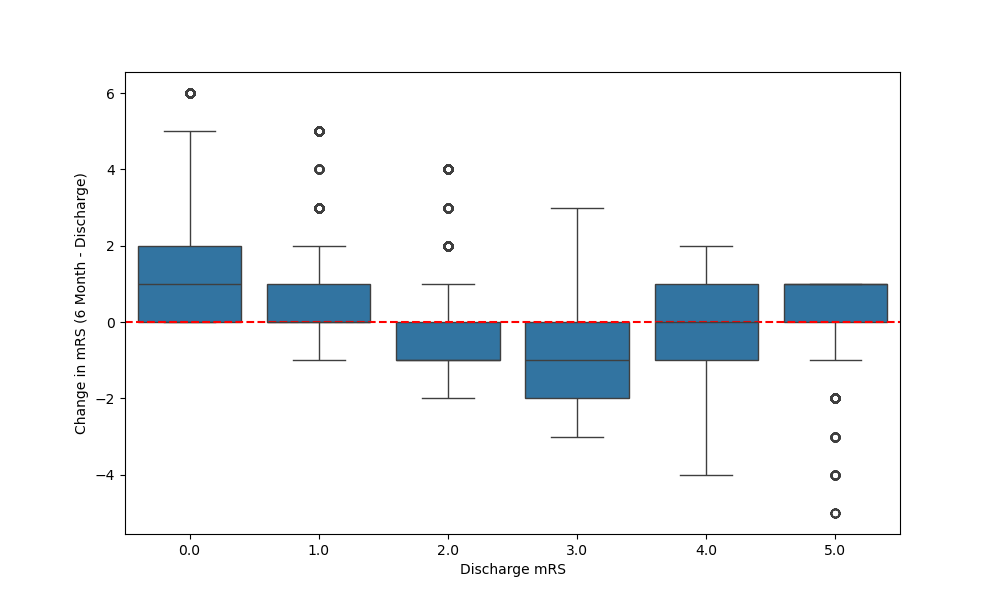
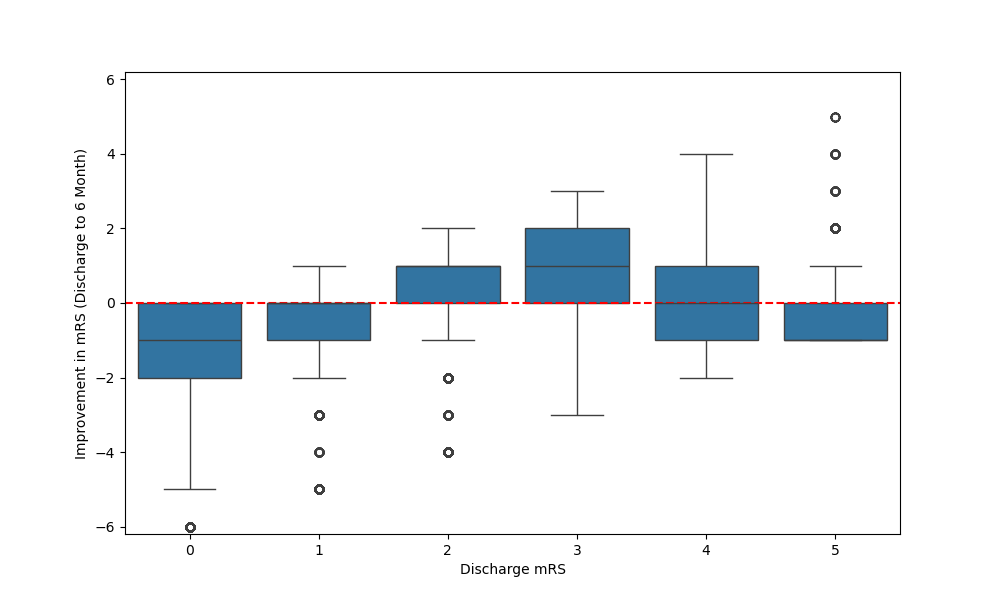
Updates from Overleaf

diff --git a/sections/08_supplementary_material.tex b/sections/08_supplementary_material.tex
@@ -350,14 +350,14 @@ Figure \ref{fig:mrs_change_hist} shows a histogram of changes across the populat
 \begin{figure}[ht]
     \centering
     \includegraphics[width=0.75\linewidth]{images/mrs_change_from_discharge_histogram.png}
-    \caption{Change in mRS from Discharge to 6 Month Follow-up by Discharge mRS}
+    \caption{Improvement in mRS from Discharge to 6 Month Follow-up by Discharge mRS. A positive number indicates reducing disability.}
     \label{fig:mrs_change_hist}
 \end{figure}
 
 \begin{figure}[ht]
     \centering
     \includegraphics[width=0.75\linewidth]{images/mrs_change_from_discharge.png}
-    \caption{Change in mRS from Discharge to 6 Month Follow-up by Discharge mRS}
+    \caption{Improvement in mRS from Discharge to 6 Month Follow-up by Discharge mRS. A positive number indicates reducing disability.}
     \label{fig:mrs_change}
 \end{figure}
 

diff --git a/main.tex b/main.tex
@@ -89,7 +89,7 @@
 \beginsupplement
 
 %TC:ignore
-%\include{sections/08_supplementary_material}
+\include{sections/08_supplementary_material}
 %TC:endignore
 
 % Word counts - Don't count these!

diff --git a/sections/01_abstract.tex b/sections/01_abstract.tex
@@ -4,6 +4,6 @@
 
 \textbf{Methods}: Data from a total of 168,347 ischaemic stroke patients who attended one of 118 emergency stroke hospitals in England and Wales from 2016 to 2021 were extracted from the Sentinel Stroke National Audit Programme (SSNAP). We constructed a machine learning model, designed to isolate the effect of thrombolysis, using explainable machine learning (XGBoost with SHAP).
 
-\textbf{Results}: Thrombolysis was found to be associated with a statistically significant improvement in the odds of achieving any given mRS threshold. Regression analysis predicted a maximum 2.5-fold improvement in odds of achieving mRS 0-1, with a decline to no treatment effect at 5 hours 28 minutes post-onset.
+\textbf{Results}: Thrombolysis was found to be associated with a statistically significant improvement in the odds of achieving a better outcome (mRS threshold). Regression analysis predicted a maximum 2.5-fold improvement in odds of achieving mRS 0-1, with a decline to no treatment effect at 5 hours 28 minutes post-onset.
 
 \textbf{Conclusions}:  Our results confirm a beneficial effect of thrombolysis in a large prospective national stroke registry, and align closely with meta-analyses of clinical trials of thrombolysis both in terms of magnitude of effect and decline over time. This work also demonstrates the potential to apply explainable machine learning to observational data to assist in understanding how clinical trials are implemented in real-world settings.

diff --git a/sections/04_results.tex b/sections/04_results.tex
@@ -2,7 +2,7 @@
 
 \subsection{Descriptive statistics}
 
-168,347 patients (with onset-to-scan of within 255 minutes) attended 118 hospitals with total stroke admissions per hospital ranging from 358 to 4,559, and with hospital thrombolysis rates ranging from 5.9\% to 39.2\%. Of the 133,516 patients who did not receive thrombolysis, their range of disability at discharge was: 12\% mRS 0, 33\% mRS 0-1, 52\% mRS 0-2, 69\% mRS 0-3, 82\% mRS 0-4, and 88\% mRS 0-5 at discharge. Of the 34,831 patients who received thrombolysis, their range of disability at discharge was: 15\% mRS 0, 35\% mRS 0-1, 54\% mRS 0-2, 69\% mRS 0-3, 81\% mRS 0-4, and 86\% mRS 0-5. Table \ref{tab:descriptive_stats} shows further descriptive statistics for patients who received or did not receive thrombolysis. 30.7\% had six month follow-up assessment of mRS. On average mRS at 6 months is very close to mRS at discharge (0.12 higher), but there was variation at individual patient level: 31\% had no change between discharge and 6 month follow-up, 73\% had no change or a change of 1 mRS band, and 27\% had a change of two or more mRS bands. Further descriptive statistics are provided in the Supplemental Material.
+168,347 patients (with onset-to-scan of within 255 minutes) attended 118 hospitals with total stroke admissions per hospital ranging from 358 to 4,559, and with hospital thrombolysis rates ranging from 5.9\% to 39.2\%. Of the 133,516 patients who did not receive thrombolysis, their range of disability at discharge was: 12\% mRS 0, 33\% mRS 0-1, 52\% mRS 0-2, 69\% mRS 0-3, 82\% mRS 0-4, and 88\% mRS 0-5 at discharge. Of the 34,831 patients who received thrombolysis, their range of disability at discharge was: 15\% mRS 0, 35\% mRS 0-1, 54\% mRS 0-2, 69\% mRS 0-3, 81\% mRS 0-4, and 86\% mRS 0-5. Table \ref{tab:descriptive_stats} shows further descriptive statistics for patients who received or did not receive thrombolysis. 30.7\% had six month follow-up assessment of mRS. On average mRS at 6 months is very close to mRS at discharge (0.12 higher), but there was variation at individual patient level: 31\% had no change between discharge and 6 month follow-up, 73\% had no change or a change of 1 mRS band, and 27\% had a change of two or more mRS bands. Those with discharge mRS of 2-4 were more likely to improve, rather than worsen. Further descriptive statistics are provided in the Supplemental Material.
 
 \begin{minipage}{1\textwidth}
 \small

diff --git a/sections/05_discussion.tex b/sections/05_discussion.tex
@@ -23,7 +23,7 @@ Though we are using a very large data set, our study necessarily has some limita
 \begin{itemize}
     \item Our results are specific to real-world use of thrombolysis in hospitals in England and Wales. They are not intended to be generalisable outside of this area.
     \item A group of more severely affected stroke patients who proceeded to receive thrombectomy has been excluded from the analysis, although during the six year study period endovascular intervention was increasing from a low base in the UK, and increased from 0.7\% to 2.0\% of all stroke.
-    \item We have used the mRS at hospital discharge as our primary outcome, whereas the trials used the mRS at 90 days.. On average acrosss the patient population stroke outcomes are similar at 3-6 months (see \cite{elhabr_predicting_2021} and our own analysis) but individual patients may improve or worsen, with 27\% of patients changing by two or more mRS units within 3-6 months. Though we do not include discharge timing directly in the model, by using stroke team identifiers, the model should be adjusted for differences that are due to between-hospital variation in discharge practices, such as timing of discharge.
+    \item We have used the mRS at hospital discharge as our primary outcome, whereas the trials used the mRS at 90 days. On average across the patient population stroke outcomes are similar at 3 months \cite{elhabr_predicting_2021} and at 6 months (our own analysis) but individual patients may improve or worsen, though those discharged with mRS 2-4 are more likely to improve than worsen. Though we do not include discharge timing directly in the model, by using stroke team identifiers, the model should be adjusted for differences that are due to between-hospital variation in discharge practices, such as timing of discharge.
     \item Our results are based on data from 2016 to 2021. Since then practices may have changed, such as more use of tenecteplase rather than alteplase, more use of thrombectomy, and increased use of anti-platelet therapy. When interpreting results, this study should be seen in the context of largely studying alteplase. Further studies, with more recent data,  should be performed for an analysis of more recent treatment regimes.
     \item The DAG was constructed internally within the team without external validation and was based on routine (observed) data meaning that we did not include unobserved variables. Though we have sought the best isolation of the effect of thrombolysis that we can, it is possible that unknown  or unmeasured confounders may be skewing results.
 